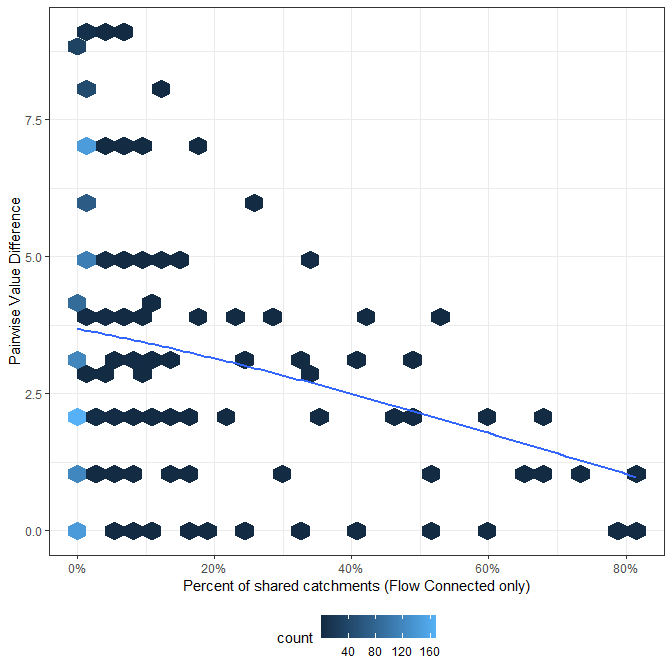
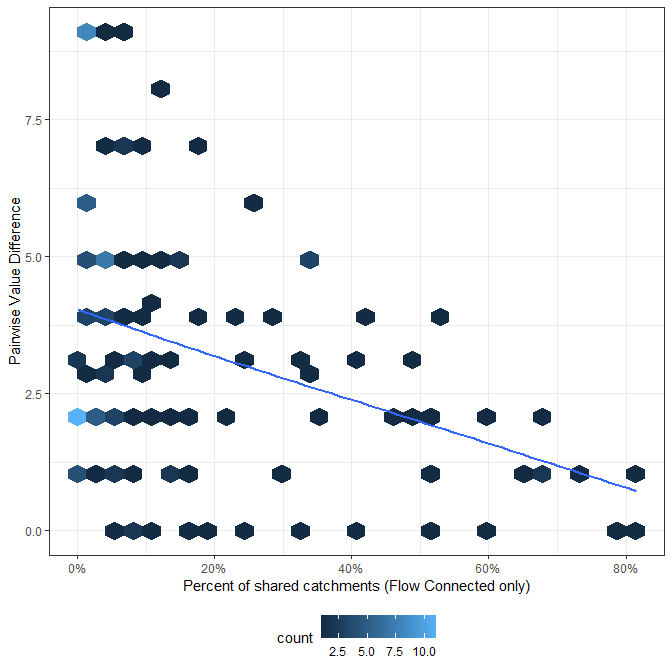
updated readme

diff --git a/README.md b/README.md
@@ -346,11 +346,11 @@ fl<-unzip(list=T, # when list==T, contents are listed only, if F, they are extra
 
 fl
 #>                   Name  Length                Date
-#> 1        dem_final.tif 1804210 2022-09-28 13:37:00
-#> 2           dem_d8.tif  454212 2022-09-28 13:37:00
-#> 3     dem_accum_d8.tif  904212 2022-09-28 13:37:00
-#> 4 dem_accum_d8_sca.tif  904212 2022-09-28 13:37:00
-#> 5   dem_streams_d8.tif  904212 2022-09-28 13:37:00
+#> 1        dem_final.tif 1804210 2022-09-28 15:50:00
+#> 2           dem_d8.tif  454212 2022-09-28 15:50:00
+#> 3     dem_accum_d8.tif  904212 2022-09-28 15:50:00
+#> 4 dem_accum_d8_sca.tif  904212 2022-09-28 15:50:00
+#> 5   dem_streams_d8.tif  904212 2022-09-28 15:50:00
 
 flow_accum_path<-file.path("/vsizip", # "/vsizip" allows terra and sf functions to read from .zip files
                            hydro_out$outfile, # Then specify the full path to the zip file
@@ -480,22 +480,22 @@ hydro_out<-trace_flowpaths(
 #                        #    trib_ids, link lengths (in meters) and subbasin areas (in meters^2)
 # hydro_out$catchments   # -> Catchment polygons of each link_id
 
-us_777<-hydro_out$us_flowpaths[["777"]] # get all upstream link_ids from link_id 777
-ds_107.1<-hydro_out$ds_flowpaths[["107.1"]] # get all downstream link_ids from 
-#                                             # link_id 107.1 (this corresponds with site_id = 29)
+us_790<-hydro_out$us_flowpaths[["790"]] # get all upstream link_ids from link_id 606
+ds_145.1<-hydro_out$ds_flowpaths[["145.1"]] # get all downstream link_ids from 
+#                                             # link_id 145.1 (this corresponds with site_id = 29)
 
 lines_out<-hydro_out$stream_lines %>% 
-  filter(link_id %in% us_777$link_id | 
-           link_id %in% ds_107.1$link_id 
+  filter(link_id %in% us_790$link_id | 
+           link_id %in% ds_145.1$link_id 
   )
 sub_out<-hydro_out$subbasins %>% 
-  filter(link_id %in% us_777$link_id | 
-           link_id %in% ds_107.1$link_id
+  filter(link_id %in% us_790$link_id | 
+           link_id %in% ds_145.1$link_id
   )
 
 tm_shape(sub_out) + tm_polygons(col="white",alpha =0.2,legend.show=F) +
   tm_shape(lines_out) + tm_lines(col="blue",alpha =0.5,legend.show=F,lwd =3) +
-  tm_shape(hydro_out$links %>% filter(link_id %in% c("777","107.1"))) + tm_dots(legend.show=F,size=0.45,border.col="black",border.alpha=1,border.lwd=1)
+  tm_shape(hydro_out$links %>% filter(link_id %in% c("790","145.1"))) + tm_dots(legend.show=F,size=0.45,border.col="black",border.alpha=1,border.lwd=1)
 ```
 
 <img src="man/figures/README-unnamed-chunk-9-1.png" width="100%" />
@@ -708,6 +708,7 @@ percent of shared catchments increases.
 ``` r
 
 ggplot(dmat %>%
+         filter(prop_shared_catchment>0) %>% 
          select(origin,destination,prop_shared_catchment,value_diff) %>%
          distinct(),
        aes(x=prop_shared_catchment,y=value_diff))+
@@ -760,44 +761,44 @@ hydro_out_sparse<-process_hydrology(
 # Since we didn't return the products, we'll verify the outputs exist in the .zip file
 unzip(list=T,hydro_out_sparse$outfile)
 #>                    Name  Length                Date
-#> 1         dem_final.tif 1804210 2022-09-28 13:42:00
-#> 2            dem_d8.tif  454212 2022-09-28 13:42:00
-#> 3      dem_accum_d8.tif  904212 2022-09-28 13:42:00
-#> 4  dem_accum_d8_sca.tif  904212 2022-09-28 13:42:00
-#> 5    dem_streams_d8.tif  904212 2022-09-28 13:42:00
-#> 6       site_id_col.csv      22 2022-09-28 13:43:00
-#> 7    snapped_points.dbf    3458 2022-09-28 13:43:00
-#> 8    snapped_points.prj     503 2022-09-28 13:43:00
-#> 9    snapped_points.shp     996 2022-09-28 13:43:00
-#> 10   snapped_points.shx     356 2022-09-28 13:43:00
-#> 11  original_points.dbf    4823 2022-09-28 13:43:00
-#> 12  original_points.prj     503 2022-09-28 13:43:00
-#> 13  original_points.shp    1360 2022-09-28 13:43:00
-#> 14  original_points.shx     460 2022-09-28 13:43:00
-#> 15     stream_links.csv   40682 2022-09-28 13:43:00
-#> 16     stream_links.dbf    6266 2022-09-28 13:43:00
-#> 17     stream_links.prj     503 2022-09-28 13:43:00
-#> 18     stream_links.shp    7044 2022-09-28 13:43:00
-#> 19     stream_links.shx    2084 2022-09-28 13:43:00
-#> 20     stream_lines.dbf    6241 2022-09-28 13:43:00
-#> 21     stream_lines.prj     503 2022-09-28 13:43:00
-#> 22     stream_lines.shp   71404 2022-09-28 13:43:00
-#> 23     stream_lines.shx    2076 2022-09-28 13:43:00
-#> 24    stream_points.csv  770045 2022-09-28 13:43:00
-#> 25    stream_points.dbf  138741 2022-09-28 13:43:00
-#> 26    stream_points.prj     503 2022-09-28 13:43:00
-#> 27    stream_points.shp  155416 2022-09-28 13:43:00
-#> 28    stream_points.shx   44476 2022-09-28 13:43:00
-#> 29   Subbasins_poly.dbf   12250 2022-09-28 13:43:00
-#> 30   Subbasins_poly.prj     503 2022-09-28 13:43:00
-#> 31   Subbasins_poly.shp  394044 2022-09-28 13:43:00
-#> 32   Subbasins_poly.shx    2084 2022-09-28 13:43:00
-#> 33     ds_flowpaths.rds  138436 2022-09-28 13:43:00
-#> 34     us_flowpaths.rds  137352 2022-09-28 13:43:00
-#> 35   Catchment_poly.dbf   20154 2022-09-28 13:44:00
-#> 36   Catchment_poly.prj     503 2022-09-28 13:44:00
-#> 37   Catchment_poly.shp 1151320 2022-09-28 13:44:00
-#> 38   Catchment_poly.shx    2084 2022-09-28 13:44:00
+#> 1         dem_final.tif 1804210 2022-09-28 15:55:00
+#> 2            dem_d8.tif  454212 2022-09-28 15:55:00
+#> 3      dem_accum_d8.tif  904212 2022-09-28 15:55:00
+#> 4  dem_accum_d8_sca.tif  904212 2022-09-28 15:55:00
+#> 5    dem_streams_d8.tif  904212 2022-09-28 15:55:00
+#> 6       site_id_col.csv      22 2022-09-28 15:55:00
+#> 7    snapped_points.dbf    3458 2022-09-28 15:55:00
+#> 8    snapped_points.prj     503 2022-09-28 15:55:00
+#> 9    snapped_points.shp     996 2022-09-28 15:55:00
+#> 10   snapped_points.shx     356 2022-09-28 15:55:00
+#> 11  original_points.dbf    4823 2022-09-28 15:55:00
+#> 12  original_points.prj     503 2022-09-28 15:55:00
+#> 13  original_points.shp    1360 2022-09-28 15:55:00
+#> 14  original_points.shx     460 2022-09-28 15:55:00
+#> 15     stream_links.csv   40682 2022-09-28 15:56:00
+#> 16     stream_links.dbf    6266 2022-09-28 15:56:00
+#> 17     stream_links.prj     503 2022-09-28 15:56:00
+#> 18     stream_links.shp    7044 2022-09-28 15:56:00
+#> 19     stream_links.shx    2084 2022-09-28 15:56:00
+#> 20     stream_lines.dbf    6241 2022-09-28 15:55:00
+#> 21     stream_lines.prj     503 2022-09-28 15:55:00
+#> 22     stream_lines.shp   71404 2022-09-28 15:55:00
+#> 23     stream_lines.shx    2076 2022-09-28 15:55:00
+#> 24    stream_points.csv  770045 2022-09-28 15:55:00
+#> 25    stream_points.dbf  138741 2022-09-28 15:55:00
+#> 26    stream_points.prj     503 2022-09-28 15:55:00
+#> 27    stream_points.shp  155416 2022-09-28 15:55:00
+#> 28    stream_points.shx   44476 2022-09-28 15:55:00
+#> 29   Subbasins_poly.dbf   12250 2022-09-28 15:56:00
+#> 30   Subbasins_poly.prj     503 2022-09-28 15:56:00
+#> 31   Subbasins_poly.shp  394044 2022-09-28 15:56:00
+#> 32   Subbasins_poly.shx    2084 2022-09-28 15:56:00
+#> 33     ds_flowpaths.rds  138436 2022-09-28 15:56:00
+#> 34     us_flowpaths.rds  137352 2022-09-28 15:56:00
+#> 35   Catchment_poly.dbf   20154 2022-09-28 15:56:00
+#> 36   Catchment_poly.prj     503 2022-09-28 15:56:00
+#> 37   Catchment_poly.shp 1151320 2022-09-28 15:56:00
+#> 38   Catchment_poly.shx    2084 2022-09-28 15:56:00
 
 tm_shape(read_sf(file.path("/vsizip",hydro_out_sparse$outfile,"Subbasins_poly.shp"))) + 
   tm_polygons(col="white",alpha =0.2,legend.show=F) +
@@ -1073,8 +1074,37 @@ paste0(round(full_time[[3]]/60,2),
        ncol(final_attributes_all)-1,
        " attributes using ", nbrOfWorkers(),
        " cores.")
-#> [1] "22.06 min to calculate attributes for 1199 reaches with 72 attributes using 8 cores."
+#> [1] "20.63 min to calculate attributes for 1199 reaches with 72 attributes using 8 cores."
+
+targ_param<-c("slope_iFLS_mean","LC_1_HAiFLS_prop","GEO_NAME_CZfg_HAiFLO_prop")
+targ_param_nm<-c("iFLS-weighted mean slope",
+                 "HAiFLS-weighted proportion of
+                 Landcover Class 1",
+                 "HAiFLO-weighted proportion of
+                 Geological class CZfg")
+
+attr_lines<-hydro_out$stream_lines %>%
+  mutate(link_id=floor(link_id)) %>% 
+  group_by(link_id) %>%              
+  summarize(geometry=st_union(geometry)) %>%
+  ungroup() %>% 
+  mutate(link_id=as.character(link_id)) %>% 
+  left_join(final_attributes_all) %>% 
+  select(any_of(targ_param))
+
+pout<-map2(targ_param,targ_param_nm,function(x,y) tm_shape(attr_lines) +
+        tm_lines(col=x,
+                 palette = "viridis",
+                 alpha =0.8,
+                 legend.show=T,
+                 scale=1)+
+        tm_layout(y)
+      )
+
+tmap_arrange(pout,ncol=3)
 ```
+
+<img src="man/figures/README-unnamed-chunk-21-1.png" width="100%" />
 
 [Back to top](#1-introduction)
 
@@ -1222,7 +1252,7 @@ wf<-workflow() %>%
 set.seed(1234)
 final_out<-future_map(cv_strats,
                       ~tune_grid(wf,resamples=.,grid=50) # Choose 150 hyper-parameter
-#                                                        # configurations
+                      #                                                        # configurations
 )
 
 # We expect the standard cross-validation to have higher accuracy than spatial
@@ -1235,16 +1265,16 @@ map_dfr(final_out,show_best,5,metric = "rmse",.id="Cross-validation strategy")
 #> # A tibble: 10 × 10
 #>    Cross-validat…¹  mtry trees min_n .metric .esti…²  mean     n std_err .config
 #>    <chr>           <int> <int> <int> <chr>   <chr>   <dbl> <int>   <dbl> <chr>  
-#>  1 standard           34   199    28 rmse    standa…  3.04     5  0.114  Prepro…
-#>  2 standard            5  1497    35 rmse    standa…  3.04     5  0.0735 Prepro…
-#>  3 standard           33  1560    30 rmse    standa…  3.04     5  0.108  Prepro…
-#>  4 standard            2   906    24 rmse    standa…  3.04     5  0.0799 Prepro…
-#>  5 standard           14   273    12 rmse    standa…  3.05     5  0.158  Prepro…
-#>  6 spatial            65    87    36 rmse    standa…  2.93     5  0.346  Prepro…
-#>  7 spatial           106   596    38 rmse    standa…  2.95     5  0.350  Prepro…
-#>  8 spatial            54   300    39 rmse    standa…  2.96     5  0.353  Prepro…
-#>  9 spatial            73  1416    40 rmse    standa…  2.96     5  0.351  Prepro…
-#> 10 spatial           105  1961    38 rmse    standa…  2.96     5  0.347  Prepro…
+#>  1 standard            6  1523    27 rmse    standa…  3.01     5  0.0966 Prepro…
+#>  2 standard           21  1385    30 rmse    standa…  3.03     5  0.103  Prepro…
+#>  3 standard           17  1294    29 rmse    standa…  3.03     5  0.100  Prepro…
+#>  4 standard           88    76    31 rmse    standa…  3.04     5  0.126  Prepro…
+#>  5 standard           26   752    26 rmse    standa…  3.04     5  0.125  Prepro…
+#>  6 spatial            61    72    36 rmse    standa…  2.92     5  0.350  Prepro…
+#>  7 spatial            70  1614    29 rmse    standa…  2.95     5  0.248  Prepro…
+#>  8 spatial            97   445    38 rmse    standa…  2.95     5  0.346  Prepro…
+#>  9 spatial            95   945    40 rmse    standa…  2.95     5  0.348  Prepro…
+#> 10 spatial             5  1879    37 rmse    standa…  2.96     5  0.346  Prepro…
 #> # … with abbreviated variable names ¹`Cross-validation strategy`, ².estimator
 ```
 
@@ -1327,11 +1357,6 @@ prediction_tbl<-tibble(
   mutate(`Uncertainty` = p75-p25,
          `Predicted`=p50) 
 
-# We'll only plot the two main watersheds we have data for:
-catch_keep<-c(hydro_out$us_flowpaths$`985`$link_id,
-              hydro_out$us_flowpaths$`669`$link_id
-              )
-
 # Since we only have predictions for entire stream segments
 # This will merge and breaks in stream lines
 Streams<-read_sf(file.path("/vsizip",hydro_out$outfile,"stream_lines.shp")) %>% 
@@ -1339,8 +1364,7 @@ Streams<-read_sf(file.path("/vsizip",hydro_out$outfile,"stream_lines.shp")) %>%
   group_by(link_id) %>%              
   summarize(geometry=st_union(geometry)) %>%
   ungroup() %>% 
-  mutate(link_id=as.character(link_id)) %>% 
-  filter(link_id %in% catch_keep)
+  mutate(link_id=as.character(link_id)) 
 
 Streams<-Streams %>% 
   left_join(prediction_tbl)
